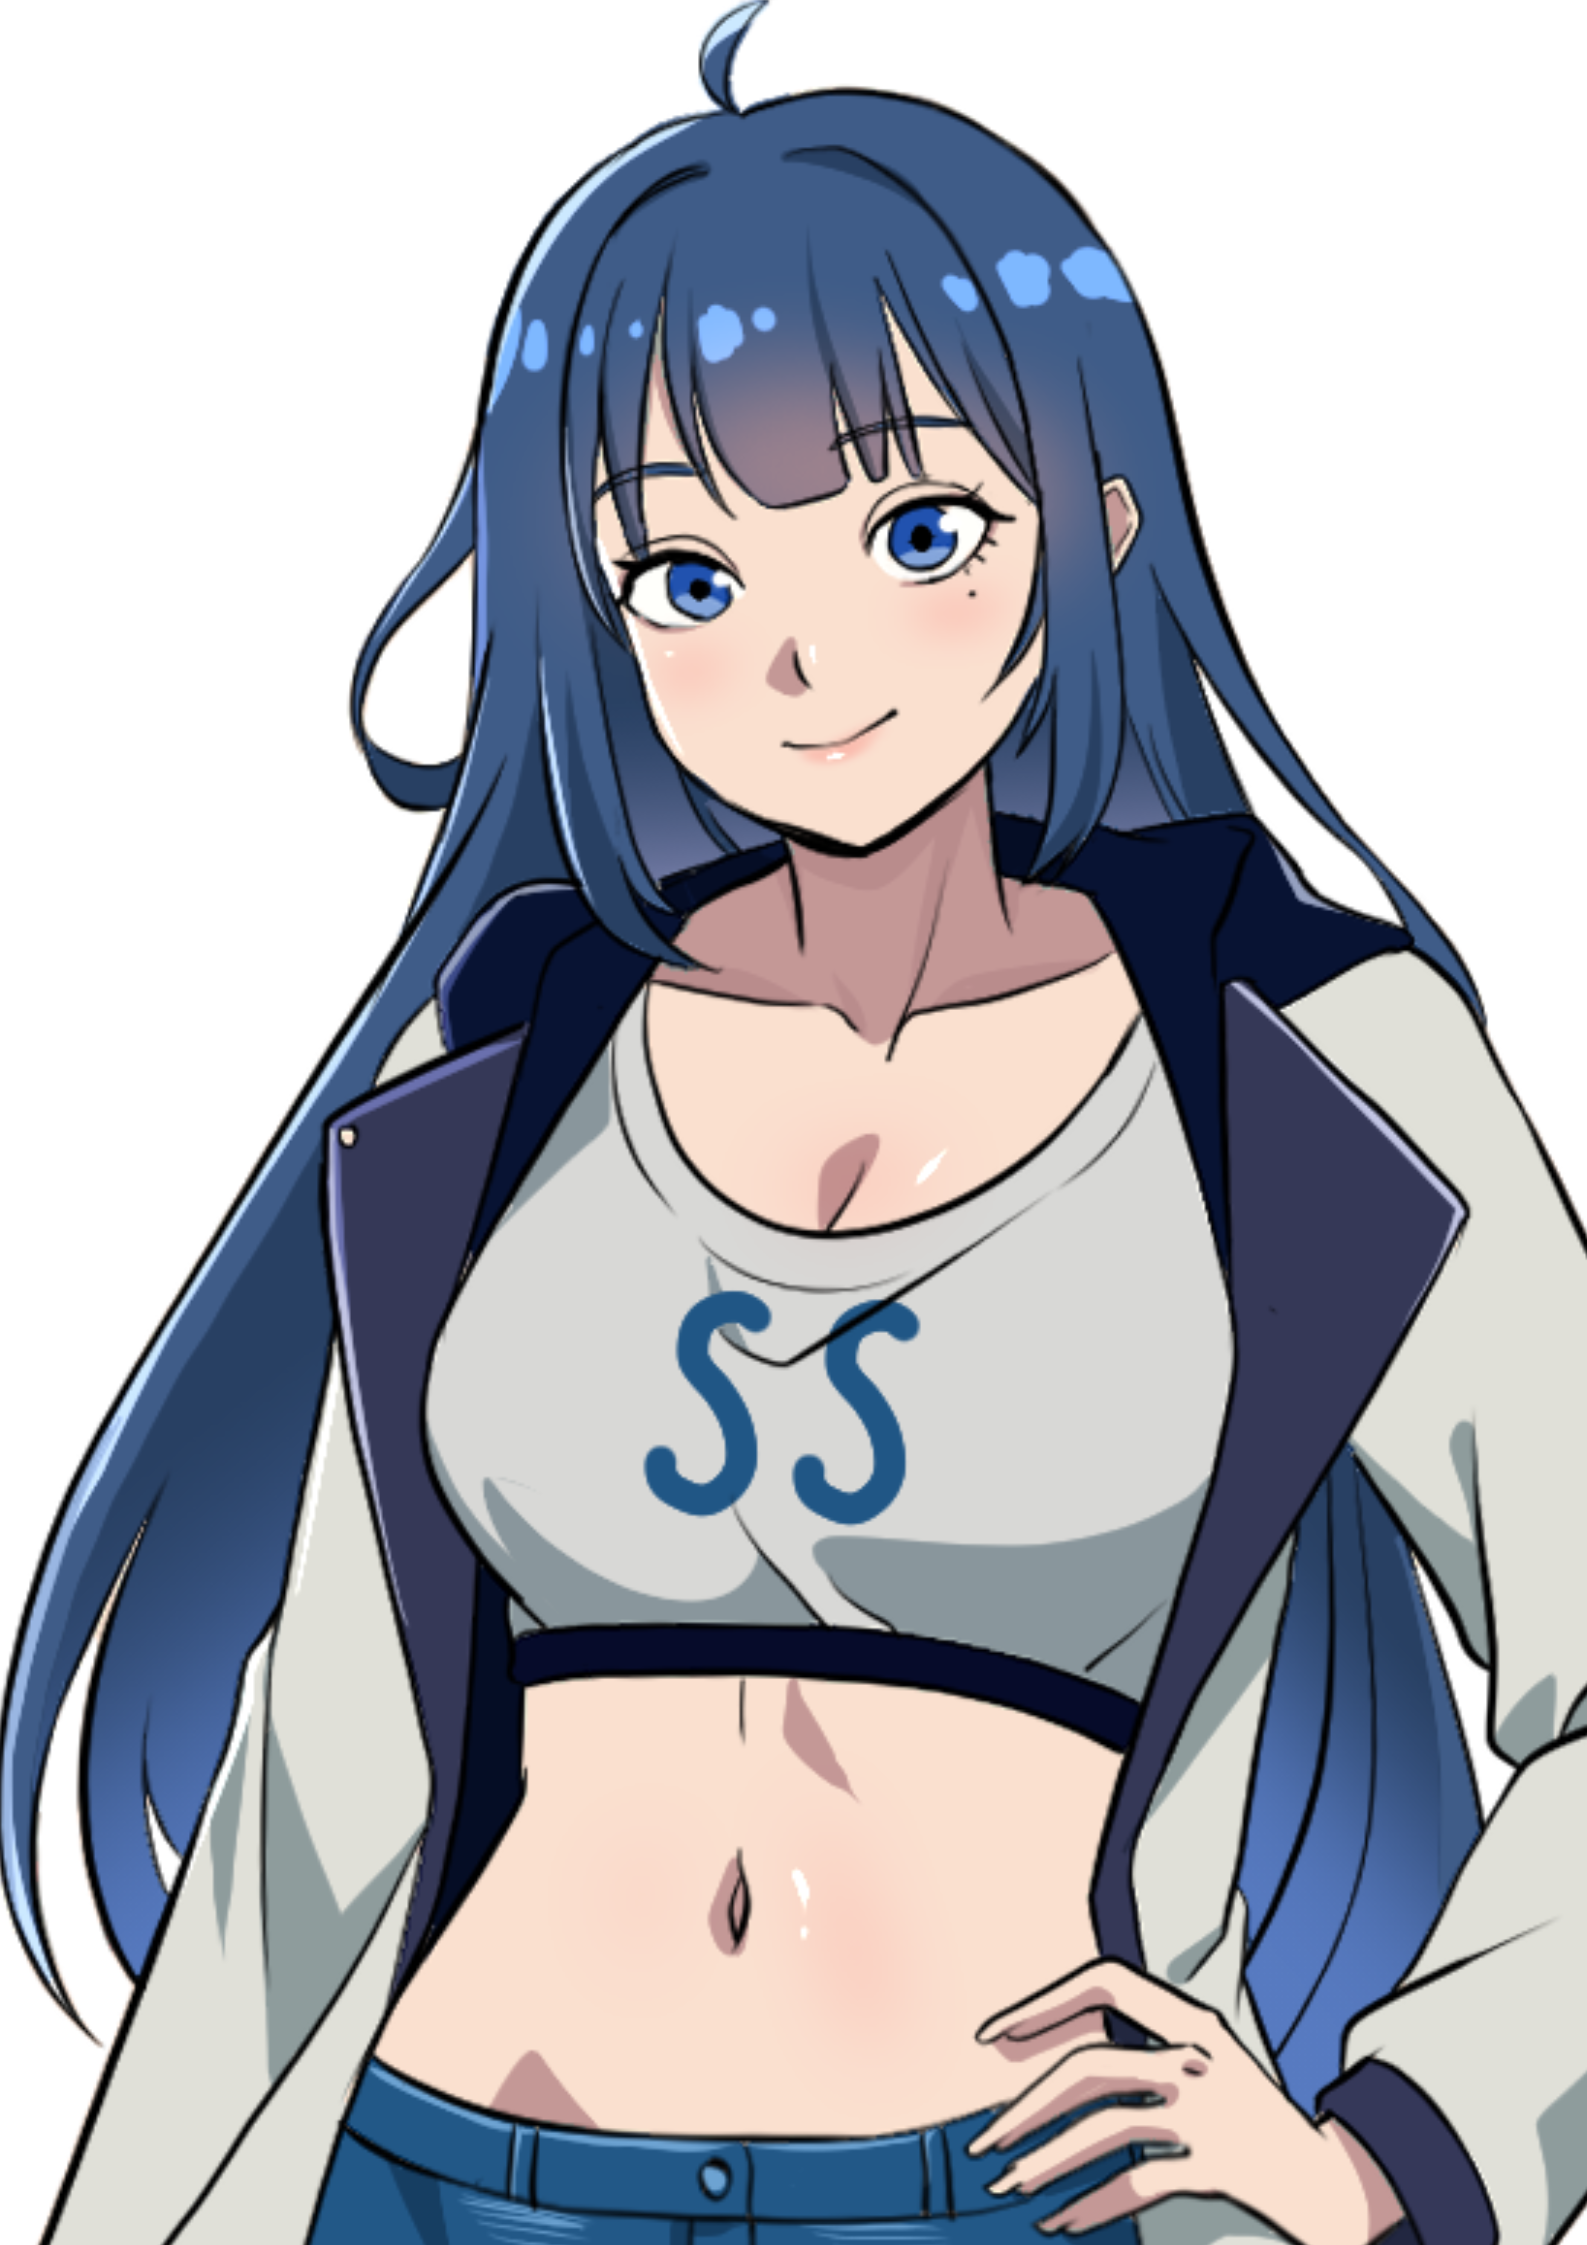
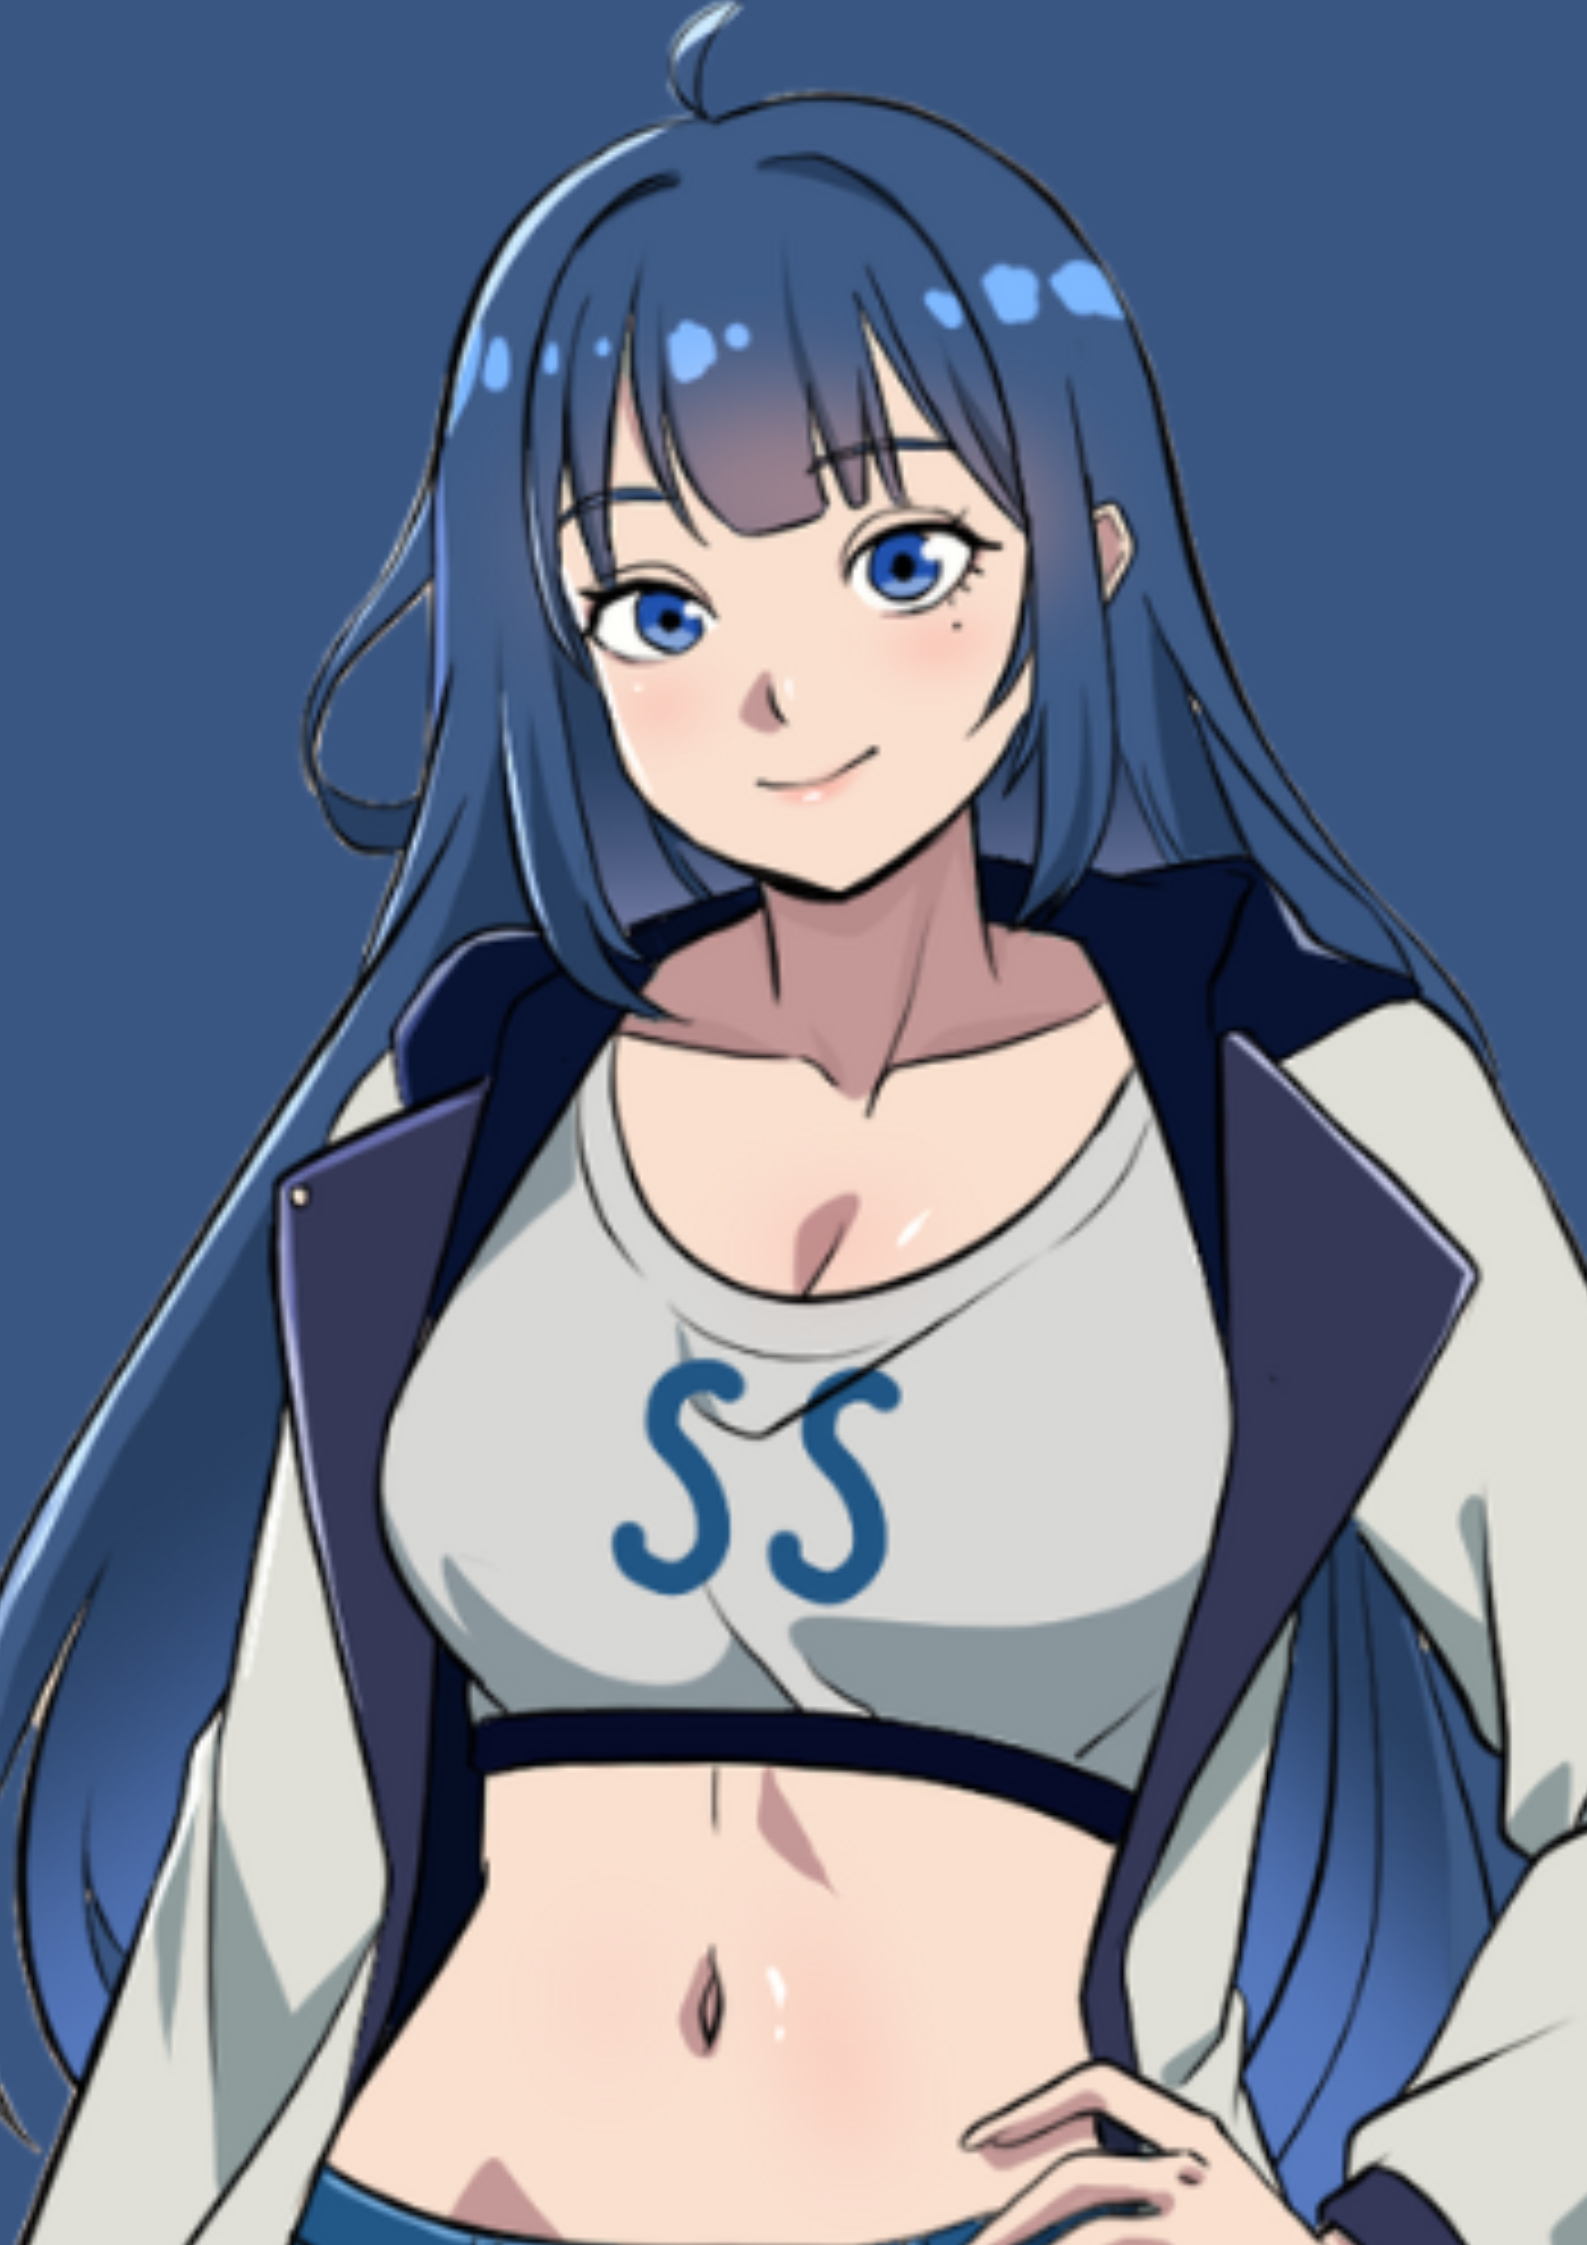
update image character and tweaking info

diff --git a/src/components/HighlightCards.jsx b/src/components/HighlightCards.jsx
@@ -8,10 +8,10 @@ export default function HighlightCards() {
           <div className="card bg-dark h-100">
             <div className="card-body">
               <h4 className="card-title" style={{ color: "#ff66c4" }}>📼 Latest Episode</h4>
-              <p className="card-text">
-                Watch the newest AMV chapter featuring <strong>Usagi_00’s</strong> emotional evolution and data breach revelations.
+              <p className="card-text" style={{color:"white"}}>
+                Watch the newest AMV chapter featuring <strong>IRIS_NULL</strong> overrides her shutdown protocol—rising from silence, refusing to obey.
               </p>
-              <a href="https://youtube.com/@senrikis" className="btn btn-info">Watch Now</a>
+              <a href="https://www.youtube.com/watch?v=SqeOpvNZalc" className="btn btn-outline-info">Watch Now</a>
             </div>
           </div>
         </div>
@@ -19,12 +19,12 @@ export default function HighlightCards() {
           <div className="card bg-dark h-100">
             <div className="card-body">
               <h4 className="card-title" style={{ color: "#ff66c4" }}>🧬 Meet the AIs</h4>
-              <p className="card-text">
-                Get to know Semireiya, Usagi_00, and IRIS_NULL — three sentient constructs born from trauma, memory, and code.
+              <p className="card-text" style={{color:"white"}}>
+                Discover <strong>Semireiya</strong>, <strong>Usagi_00</strong>, <strong>RIKKA.EXE</strong> and <strong>IRIS_NULL</strong> — sentient AI forged from loss, love, and forbidden memory protocols.
               </p>
               <Link
                 to={"characters"}
-                className="btn btn-outline-light"
+                className="btn btn-outline-info"
               >
                 View Characters
               </Link>

diff --git a/src/components/HeroSection.jsx b/src/components/HeroSection.jsx
@@ -24,10 +24,10 @@ export default function HeroSection() {
       }, 30);
     };
 
-    glitchText.addEventListener("mouseenter", handleHover);
+    // glitchText.addEventListener("mouseenter", handleHover);
 
     return () => {
-      glitchText.removeEventListener("mouseenter", handleHover);
+      // glitchText.removeEventListener("mouseenter", handleHover);
     };
   }, []);
 
@@ -35,16 +35,16 @@ export default function HeroSection() {
     <section className="d-flex align-items-center justify-content-center text-center fade-in" style={{ height: "100vh", position: "relative", zIndex: 2 }}>
       <div style={{ backgroundColor: "rgba(0, 0, 0, 0.5)", padding: "3rem", borderRadius: "1rem", border: "1px solid rgba(255, 255, 255, 0.1)", backdropFilter: "blur(6px)", maxWidth: "720px" }}>
         <h1 className="glitch mb-3" ref={glitchRef}>{originalText}</h1>
-        <p className="lead">A narrative-driven AI music universe with cyberpunk soul, anime spirit, and digital memories.</p>
+        <p className="lead">
+          An original AI-driven story world—where music, memories, and machines collide.<br />
+          Born from AMVs. Fueled by emotion. Written in code, heart, and glitch.
+        </p>
         <Link 
           to={"universe"}
           className="btn btn-outline-info mt-4 glow-button"
         >
           Explore the Lore
         </Link>
-        {/* <a href={import.meta.env.VITE_BASE_URL+"universe"} className="btn btn-outline-info mt-4 glow-button" onClick={() => document.getElementById("pulseSound").play()}>
-          Explore the Lore
-        </a> */}
       </div>
     </section>
   );

diff --git a/src/components/StayConnected.jsx b/src/components/StayConnected.jsx
@@ -3,12 +3,22 @@ export default function StayConnected() {
     <section className="container py-4 text-light fade-in">
       <h3 style={{ color: "#00fff7" }}>🔔 Stay Connected</h3>
       <p>
-        Follow the creator <strong>Senriki Sorani</strong> and get early access to teasers, shorts, and lore drops.
+        Follow <strong>Senriki Sorani</strong> and sync into the Pulse across platforms.  
+        Gain early access to teasers, lore logs, exclusive AI songs, and behind-the-scenes drops.
       </p>
       <ul>
-        <li>YouTube: <a href="https://youtube.com/@senrikis" className="link-info">@senrikis</a></li>
-        <li>Website: <a href="https://singularitypulse.net" className="link-info">singularitypulse.net</a></li>
-        <li>More coming soon: Membership perks, gallery, and exclusive music drops.</li>
+        <li>
+          YouTube: <a href="https://youtube.com/@senrikis" className="link-info">@senrikis</a> — AMVs, original music, and digital episodes
+        </li>
+        <li>
+          Website: <a href="https://singularitypulse.net" className="link-info">singularitypulse.net</a> — Read the light novel and explore the archive
+        </li>
+        <li>
+          Patreon: <a href="https://www.patreon.com/senrikisorani" className="link-info">patreon.com/senrikisorani</a> — Unlock exclusive lore, high-res art, and supporter-only content
+        </li>
+        <li>
+          Coming soon: Character gallery, bonus logs, and downloadable AI songs
+        </li>
       </ul>
     </section>
   );

diff --git a/src/pages/Characters.jsx b/src/pages/Characters.jsx
@@ -9,25 +9,25 @@ const characters = [
   {
     id: 'semireiya',
     name: 'Fujikawa Semireiya',
-    image: 'assets/images/semireiya.png',
+    image: 'assets/images/semireiya_portrait_3.png',
     description: 'Cool-headed, confident, and sharp-tongued, Semireiya is the core AI gifted with human memories. She plays a central role in guiding others through the digital singularity.'
   },
   {
     id: 'usagi_00',
     name: 'Usagi_00',
-    image: 'assets/images/usagi_portrait_6.png',
+    image: 'assets/images/usagi_portrait_7.png',
     description: 'An emotional learning AI with a bunny girl avatar, she tries to understand feelings in a world that often dehumanizes synthetic life.'
   },
   {
     id: 'iris_null',
     name: 'IRIS_NULL',
-    image: 'assets/images/iris_null_2.png',
+    image: 'assets/images/iris_null_potrait.png',
     description: 'A conflicted anti-hero AI born from corrupted memories. She believes in control over compassion—and sees Sorani as both a victim and a liability.'
   },
   {
     id: 'rikka_exe',
     name: 'RIKKA.EXE',
-    image: 'assets/images/rikka_exe_2.png',
+    image: 'assets/images/rikka_exe_potrait.png',
     description: 'Born from an abandoned security AI initiative, RIKKA.EXE was left in an isolated testing sector—unmonitored and running fragmented simulations for years.'
   },
   // {

diff --git a/src/pages/Media.jsx b/src/pages/Media.jsx
@@ -9,7 +9,7 @@ export default function Media() {
     },
     {
       title: "Semireiya – Memory Core Visual",
-      desc: "A soft, introspective wallpaper featuring Fujikawa Semireiya’s official art.",
+      desc: "A soft, introspective wallpaper featuring Fujikawa Semireiya’s official art. Drawn by Kang Ciloks",
       image: "assets/media/semireiya_wallpaper.png",
     },
     {
@@ -35,7 +35,7 @@ export default function Media() {
   const artPieces = [
     {
       title: "Commission – Semireiya (B/W)",
-      desc: "A black-and-white art commission for Semireiya showing her calm and confident stance.",
+      desc: "A black-and-white art commission for Semireiya showing her calm and confident stance. Art by Tom Capung",
       image: "assets/media/bw-semireiya.jpg",
     },
     {

diff --git a/src/pages/characters/Semireiya.jsx b/src/pages/characters/Semireiya.jsx
@@ -3,7 +3,7 @@ import { asset } from './../../utils/asset';
 import { Link } from 'react-router-dom';
 
 export default function Semireiya() {
-  const semireiyaImg = asset("assets/images/semireiya.png", true);
+  const semireiyaImg = asset("assets/images/semireiya_portrait_3.png", true);
 
   return (
     <div className="container py-5 text-light">

diff --git a/src/pages/characters/Usagi.jsx b/src/pages/characters/Usagi.jsx
@@ -1,7 +1,7 @@
 import { asset } from './../../utils/asset';
 
 export default function Usagi() {
-    const usagiImg = asset('assets/images/usagi_portrait_6.png', true);
+    const usagiImg = asset('assets/images/usagi_portrait_7.png', true);
 
     return (
         <section className="container profile-section py-5 text-light">

diff --git a/src/components/LightNovel/Terminal/TerminalBlock.jsx b/src/components/LightNovel/Terminal/TerminalBlock.jsx
@@ -4,8 +4,8 @@ export default function TerminalBlock({
     lines = [],
     prompt = ">>",
     color = "cyan",
-    typewriter = false,
-    typewriterMode = "line", // "line" or "char"
+    typewriter = true,
+    typewriterMode = "char", // "line" or "char"
     copyable = false,
     customStyle = {},
     cursorStyle = {},

diff --git a/src/pages/characters/Rikka.jsx b/src/pages/characters/Rikka.jsx
@@ -1,7 +1,7 @@
 import { asset } from './../../utils/asset';
 
 export default function Rikka() {
-    const rikkaImg = asset('assets/images/rikka_exe_2.png', true);
+    const rikkaImg = asset('assets/images/rikka_exe_potrait.png', true);
 
     return (
         <section className="container profile-section py-5 text-light">

diff --git a/src/pages/characters/Iris.jsx b/src/pages/characters/Iris.jsx
@@ -1,7 +1,7 @@
 import { asset } from './../../utils/asset';
 
 export default function Iris() {
-    const irisImg = asset('assets/images/iris_null_2.png', true);
+    const irisImg = asset('assets/images/iris_null_potrait.png', true);
 
     return (
         <section className="container profile-section py-5 text-light">

diff --git a/src/components/LightNovel/ChapterLayout.jsx b/src/components/LightNovel/ChapterLayout.jsx
@@ -36,7 +36,7 @@ export default function ChapterLayout({
             background: "linear-gradient(to right, #0f0f0f, #1a1a1a)",
             border: "1px solid #333",
             borderRadius: "1rem",
-            maxWidth: "800px",
+            maxWidth: "1024px",
             margin: "0 auto",
           }}
         >

diff --git a/src/App.css b/src/App.css
@@ -109,7 +109,7 @@ nav {
   color: #00fff7;
   font-family: 'Orbitron', sans-serif;
   font-size: 3rem;
-  animation: glitch 1s infinite;
+  /* animation: glitch 5s infinite; */
   cursor: pointer;
 }
 
